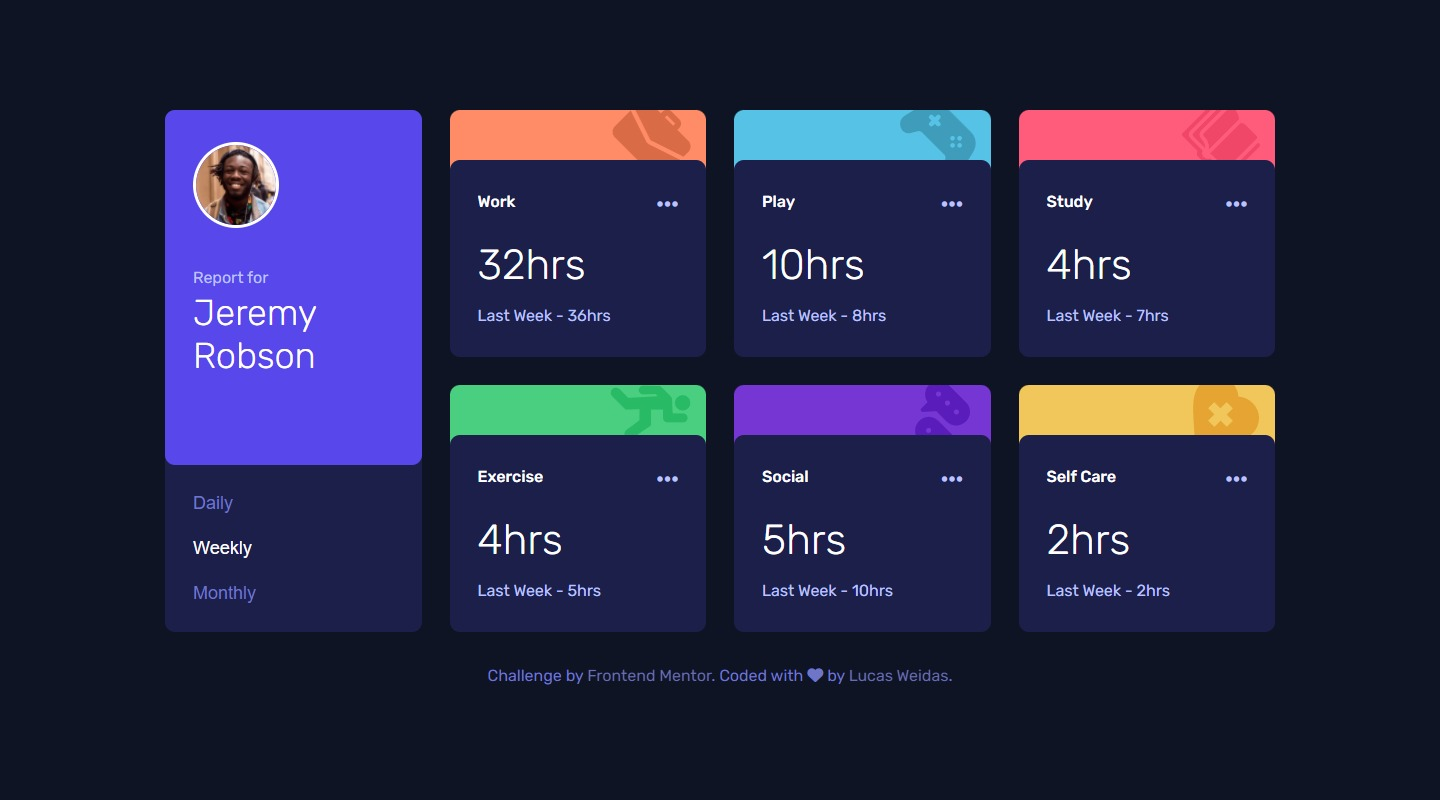
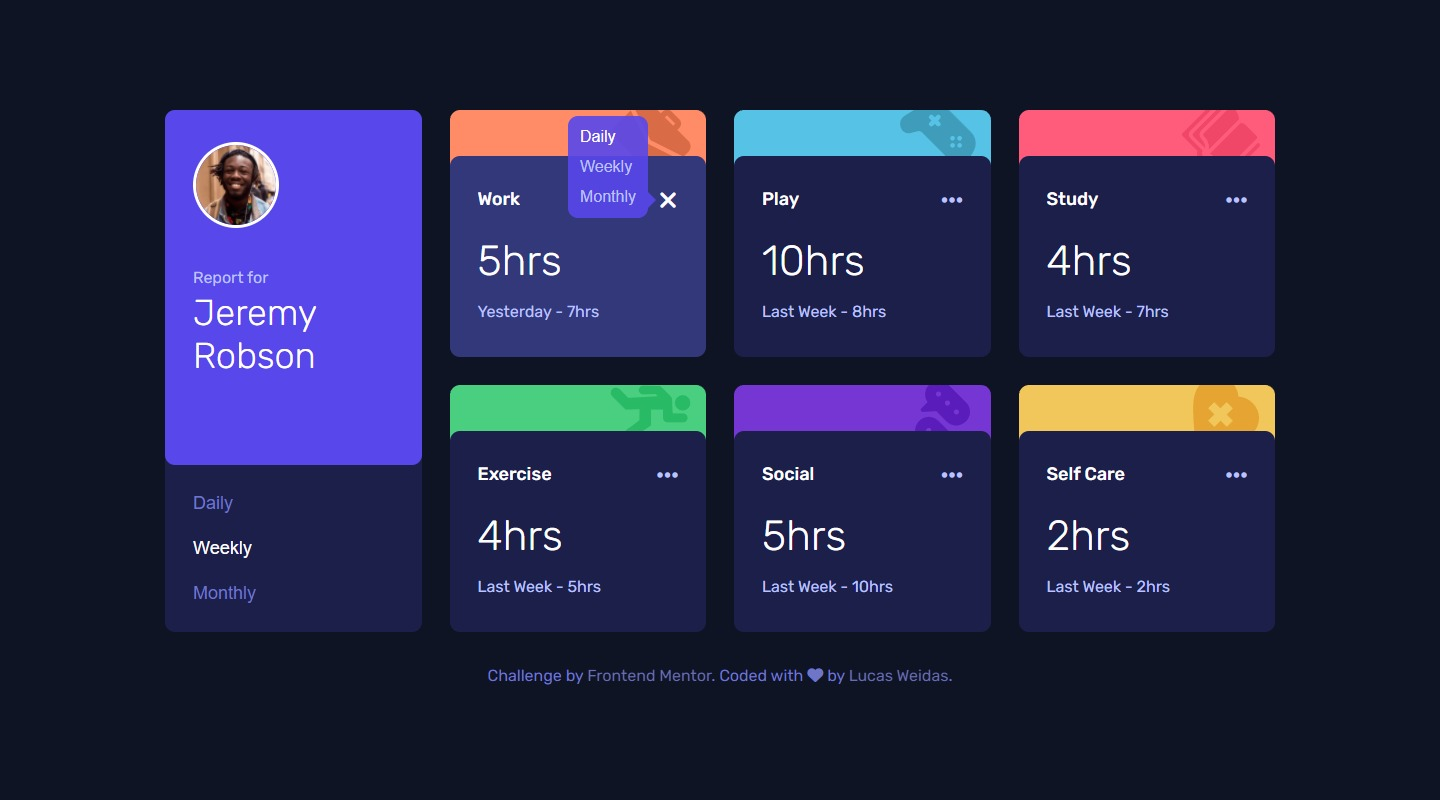
completed project

diff --git a/css/style.css b/css/style.css
@@ -24,11 +24,9 @@
   --clr-pale-blue: hsl(236, 100%, 87%);
   --clr-white: hsl(0, 0%, 100%);
   --clr-card-hove: hsl(236, 41%, 34%);
-  --clr-menu-btn: hsl(236, 100%, 95%);
   --clr-menu-bg: hsl(246, 80%, 60%, 0.9);
 
   --font-default: 'Rubik', sans-serif;
-  --font-size-cards: 18px;
 
   --radius: 10px;
 }
@@ -158,6 +156,7 @@ button:focus-within {
 .track-hdr__btn {
   width: 21px;
   display: inline-flex;
+  justify-content: center;
   font-size: 1.5rem;
   color: var(--clr-pale-blue);
   position: relative;
@@ -183,20 +182,27 @@ button:focus-within {
 .track-hdr__btn.active::before {
   visibility: visible;
   opacity: 1;
-  pointer-events: auto;
+}
+
+.track-hdr__btn > .fa-solid {
+  transition: transform 200ms ease;
 }
 
 .track-hdr__btn > .fa-xmark {
-  display: none;
+  font-size: 0px;
   color: var(--clr-white);
 }
 
+.track-hdr__btn.active > .fa-solid {
+  transform: rotate(90deg);
+}
+
 .track-hdr__btn.active > .fa-ellipsis {
-  display: none;
+  font-size: 0px;
 }
 
 .track-hdr__btn.active > .fa-xmark {
-  display: block;
+  font-size: inherit;
 }
 
 /* Cards Menu Container */
@@ -216,19 +222,6 @@ button:focus-within {
   transition: opacity 200ms ease;
 }
 
-/* .menu::before {
-  content: '';
-  position: absolute;
-  display: block;
-  width: 0px;
-  border-style: solid;
-  border-color: transparent var(--clr-menu-bg);
-  border-width: 8px 0 8px 8px;
-  bottom: 10px;
-  right: -8px;
-  margin-top: -8px;
-} */
-
 .track-hdr__btn.active ~ .menu {
   visibility: visible;
   opacity: 1;
@@ -239,7 +232,7 @@ button:focus-within {
   font-size: 1rem;
   width: 100%;
   text-align: start;
-  color: var(--clr-menu-btn);
+  color: var(--clr-pale-blue);
 }
 
 /* Cards Time Container */

diff --git a/index.html b/index.html
@@ -31,9 +31,9 @@
           </h1>
         </div>
         <div id="tab" role="menu">
-          <button class="tab__btn" data-tab="Day" aria-label="Change information for all cards to Daily">Daily</button>
-          <button class="tab__btn active" data-tab="Week" aria-label="Change information for all cards to Weekly">Weekly</button>
-          <button class="tab__btn" data-tab="Month" aria-label="Change information for all cards to Monthly">Monthly</button>
+          <button class="tab__btn" data-tab="Day" aria-label="Change all information to Daily">Daily</button>
+          <button class="tab__btn active" data-tab="Week" aria-label="Change all information to Weekly">Weekly</button>
+          <button class="tab__btn" data-tab="Month" aria-label="Change all information to Monthly">Monthly</button>
         </div>
       </div>
       <!-- Work Card -->
